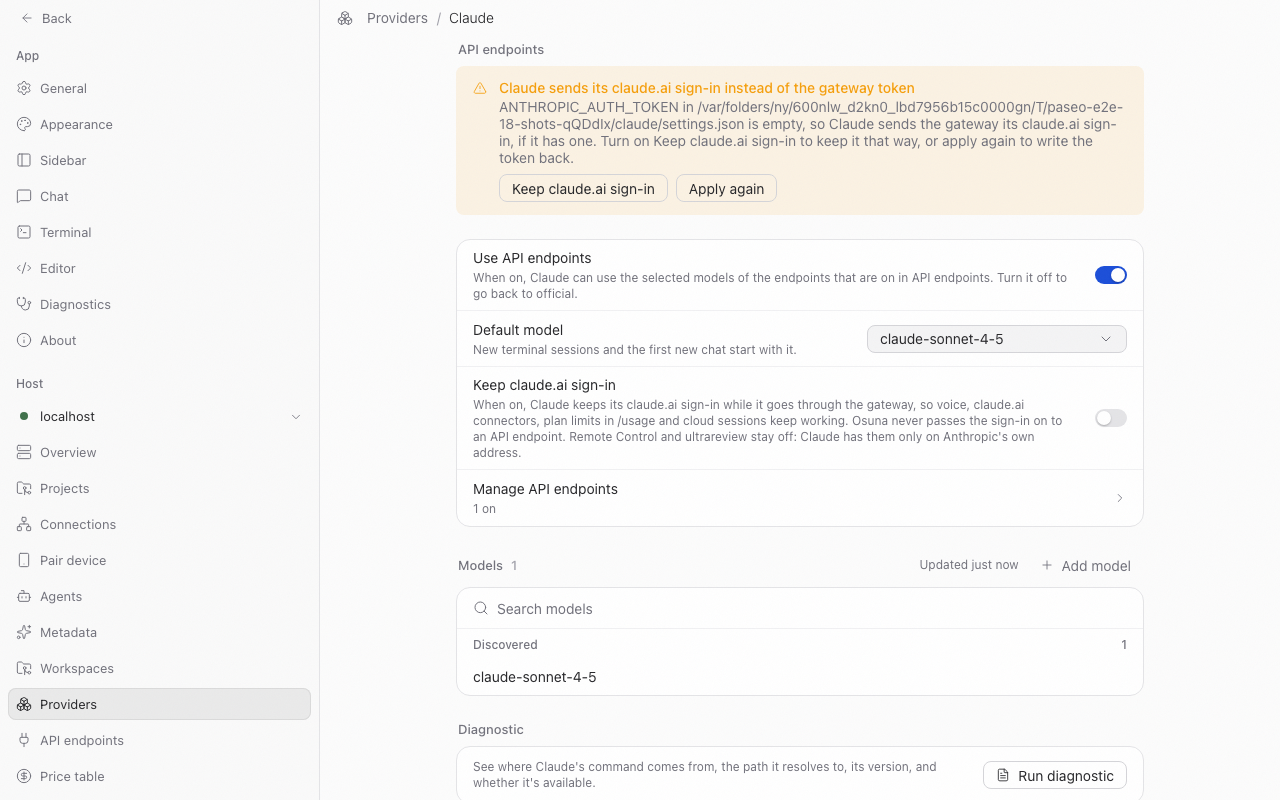
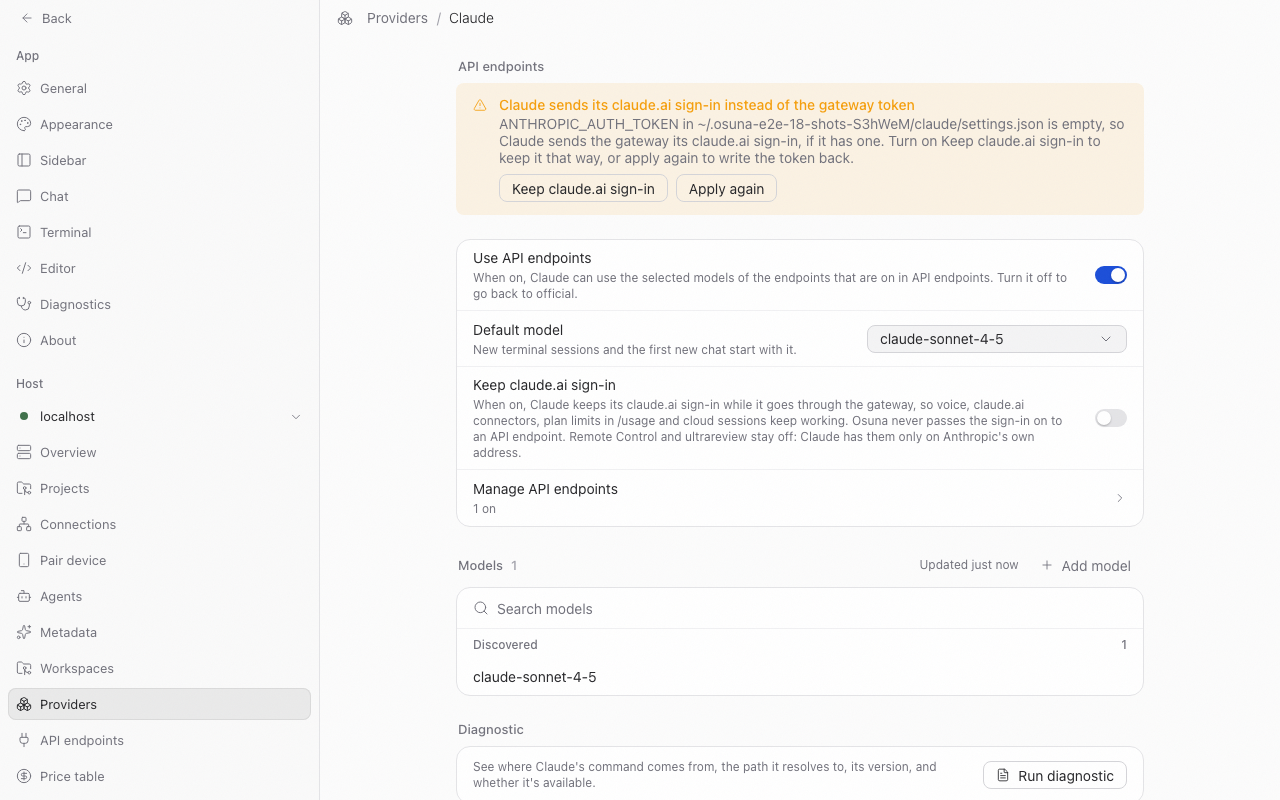
fix(api-endpoints): 工单 18 审查修正——claude.ai 登录的报错改写去掉类型断言、多条件具名；补 count_tokens 的端到端；口令填回去的提示照 magpie 说清登录还在；COMPAT 标注补全

Changed region(s): [[0.3438, 0.0625, 0.9062, 0.2188]]

diff --git a/packages/server/src/server/api-endpoints/gateway/claude-signin.ts b/packages/server/src/server/api-endpoints/gateway/claude-signin.ts
@@ -2,7 +2,7 @@
 // claudeSignIn、keepsSignIn、signInWriter 与 refusedMessage）
 // Copyright (c) 2026 yetone. MIT License — 完整声明见本仓库 THIRD_PARTY_NOTICES。
 
-import type { IncomingHttpHeaders, OutgoingHttpHeaders } from "node:http";
+import type { IncomingHttpHeaders } from "node:http";
 import type { Response } from "express";
 import { isRecord, parseJson } from "../upstream-http.js";
 import { ANSWERED_BY_HEADER } from "./upstream-call.js";
@@ -20,6 +20,8 @@ import { ANSWERED_BY_HEADER } from "./upstream-call.js";
 const SIGN_IN_PREFIX = "sk-ant-oat";
 const REVOKED_TEXT = "OAuth token has been revoked";
 const X_API_KEY = /x-api-key/gi;
+// 只用来问有没有：带 g 的正则 test 会记住上次的位置。
+const HAS_X_API_KEY = /x-api-key/i;
 const STREAM_ERROR = "event: error\n";
 // 报错开头「接口名: 」里接口名最长这么多字符（magpie refusedMessage）。
 const NAME_MOST_CHARS = 64;
@@ -31,55 +33,83 @@ export function isClaudeSignIn(headers: IncomingHttpHeaders): boolean {
   return isBearer && authorization.slice(7).trim().startsWith(SIGN_IN_PREFIX);
 }
 
-type Chunk = string | Buffer | Uint8Array;
-type WriteHead = Response["writeHead"];
+type Chunk = string | Uint8Array;
+
+/** 写给 Agent 的一段正文；回调之类的其他参数不是正文。 */
+function chunkOf(value: unknown): Chunk | null {
+  const isChunk = typeof value === "string" || value instanceof Uint8Array;
+  return isChunk ? value : null;
+}
+
+/** 响应头的值能交给 setHeader 的样子；别的不要。 */
+function headerValueOf(value: unknown): string | number | string[] | null {
+  if (typeof value === "string" || typeof value === "number") return value;
+  const isTextList = Array.isArray(value) && value.every((item) => typeof item === "string");
+  return isTextList ? value : null;
+}
+
+/** writeHead 的参数里带的响应头（对象写法；Osuna 不用数组写法）。 */
+function headersIn(args: unknown[]): Record<string, unknown> {
+  return args.find(isRecord) ?? {};
+}
 
 /**
  * 带 Claude 登录的请求（isClaudeSignIn），它的回复换成 magpie signInWriter 的写法：报错的状态码先扣着，
  * 等看到正文再决定怎么说。中转站的报错都是一次写完整份，流里的错误事件也是一次一个。
+ * 换的是这个回复自己的 writeHead / write / end，原来的那几个经 Reflect.apply 照常调用。
  */
 export function keepClaudeSignIn(res: Response): void {
-  const writeHead = res.writeHead.bind(res) as (status: number) => Response;
-  const write = res.write.bind(res) as (chunk: Chunk) => boolean;
-  const end = res.end.bind(res) as (chunk?: Chunk) => Response;
+  const originalWriteHead = res.writeHead;
+  const originalWrite = res.write;
+  const originalEnd = res.end;
+  const sendHead = (status: number): void => {
+    Reflect.apply(originalWriteHead, res, [status]);
+  };
+  const sendChunk = (chunk: Chunk): boolean => Boolean(Reflect.apply(originalWrite, res, [chunk]));
+  const finish = (chunk: Chunk | null): Response => {
+    const args = chunk === null ? [] : [chunk];
+    Reflect.apply(originalEnd, res, args);
+    return res;
+  };
   // 扣着的报错状态码；0 为没有。
   let held = 0;
   // 报错已经改成 502 发出：后面的正文都丢掉。
   let told = false;
 
-  const heldStatus = () => {
+  const heldStatus = (): number => {
     if (held !== 0) return held;
-    return !res.headersSent && res.statusCode >= 400 ? res.statusCode : 0;
+    const isErrorNotSent = !res.headersSent && res.statusCode >= 400;
+    if (isErrorNotSent) return res.statusCode;
+    return 0;
   };
   // 扣着的状态码到底没有正文：401 照样改成 502，其余原样。
-  const release = (status: number) => {
+  const release = (status: number): void => {
     held = 0;
-    writeHead(status === 401 ? 502 : status);
+    sendHead(status === 401 ? 502 : status);
   };
   // 看到报错正文：要改成 502 的交出新正文，其余保持状态码、只换掉 x-api-key。
   const answer = (status: number, chunk: Chunk): Chunk => {
     held = 0;
     const text = Buffer.from(chunk).toString("utf8");
-    const isSignInRefused = status === 401 || (status === 403 && text.includes(REVOKED_TEXT));
+    const isRevoked = status === 403 && text.includes(REVOKED_TEXT);
+    const isSignInRefused = status === 401 || isRevoked;
     if (!isSignInRefused) {
-      if (!text.match(X_API_KEY)) {
-        writeHead(status);
+      if (!HAS_X_API_KEY.test(text)) {
+        sendHead(status);
         return chunk;
       }
       res.removeHeader("content-length");
-      writeHead(status);
+      sendHead(status);
       return text.replace(X_API_KEY, "API key");
     }
     told = true;
     res.removeHeader("content-length");
     res.setHeader("content-type", "application/json");
-    writeHead(502);
+    sendHead(502);
     const answeredBy = res.getHeader(ANSWERED_BY_HEADER);
-    const message = refusedMessage({
-      text,
-      endpoint: typeof answeredBy === "string" ? answeredBy : "",
-      status,
-    });
+    let endpoint = "";
+    if (typeof answeredBy === "string") endpoint = answeredBy;
+    const message = refusedMessage({ text, endpoint, status });
     return JSON.stringify({ type: "error", error: { type: "api_error", message } });
   };
   // 开口 200 之后流里的错误事件：x-api-key 说成 API key。
@@ -88,44 +118,54 @@ export function keepClaudeSignIn(res: Response): void {
     const at = text.indexOf(STREAM_ERROR);
     if (at === -1) return chunk;
     const event = text.slice(at);
-    if (!event.match(X_API_KEY)) return chunk;
+    if (!HAS_X_API_KEY.test(event)) return chunk;
     return text.slice(0, at) + event.replace(X_API_KEY, "API key");
   };
-  const isEmpty = (chunk: Chunk | undefined): chunk is undefined =>
-    chunk === undefined || chunk.length === 0;
+  // 不扣着状态码时照发；响应头已经发出时才可能是流里的错误事件。
+  const passed = (chunk: Chunk): Chunk => {
+    if (!res.headersSent) return chunk;
+    return streamed(chunk);
+  };
 
   // 报错的状态码与响应头先扣着（头放进 res，正文来了再一起发）；其余照常。
-  const originalWriteHead = res.writeHead as unknown as (...args: unknown[]) => Response;
-  res.writeHead = ((status: number, ...rest: unknown[]) => {
+  res.writeHead = (status: number, ...rest: unknown[]): Response => {
     const isHeldError = !res.headersSent && status >= 400 && held === 0;
-    if (!isHeldError) return originalWriteHead.call(res, status, ...rest);
+    if (!isHeldError) {
+      Reflect.apply(originalWriteHead, res, [status, ...rest]);
+      return res;
+    }
     held = status;
-    const headers = rest.find(isRecord) as OutgoingHttpHeaders | undefined;
-    for (const [name, value] of Object.entries(headers ?? {})) {
-      if (value !== undefined) res.setHeader(name, value);
+    for (const [name, raw] of Object.entries(headersIn(rest))) {
+      const value = headerValueOf(raw);
+      if (value !== null) res.setHeader(name, value);
     }
     return res;
-  }) as WriteHead;
+  };
 
-  res.write = ((chunk: Chunk) => {
+  res.write = (data: unknown): boolean => {
     if (told) return true;
+    const chunk = chunkOf(data);
+    if (chunk === null || chunk.length === 0) return true;
     const status = heldStatus();
-    if (status === 0) return write(res.headersSent ? streamed(chunk) : chunk);
-    if (isEmpty(chunk)) return true;
-    return write(answer(status, chunk));
-  }) as Response["write"];
+    if (status === 0) return sendChunk(passed(chunk));
+    return sendChunk(answer(status, chunk));
+  };
 
-  res.end = ((chunk?: Chunk | (() => void)) => {
-    const data = typeof chunk === "function" ? undefined : chunk;
-    if (told) return end();
+  res.end = (data?: unknown): Response => {
+    if (told) return finish(null);
+    const chunk = chunkOf(data);
+    const isEmpty = chunk === null || chunk.length === 0;
     const status = heldStatus();
-    if (status === 0) return end(isEmpty(data) || !res.headersSent ? data : streamed(data));
-    if (isEmpty(data)) {
-      release(status);
-      return end();
+    if (status === 0) {
+      if (isEmpty) return finish(null);
+      return finish(passed(chunk));
     }
-    return end(answer(status, data));
-  }) as Response["end"];
+    if (isEmpty) {
+      release(status);
+      return finish(null);
+    }
+    return finish(answer(status, chunk));
+  };
 }
 
 /**
@@ -134,8 +174,10 @@ export function keepClaudeSignIn(res: Response): void {
  */
 function refusedMessage(input: { text: string; endpoint: string; status: number }): string {
   const parsed = parseJson(input.text);
-  const error = isRecord(parsed) && isRecord(parsed.error) ? parsed.error : null;
-  let reason = typeof error?.message === "string" ? error.message.trim() : "";
+  const error = isRecord(parsed) ? parsed.error : null;
+  const said = isRecord(error) ? error.message : null;
+  let reason = "";
+  if (typeof said === "string") reason = said.trim();
   let name = input.endpoint;
   const cut = reason.indexOf(": ");
   const isNamed = cut > 0 && cut <= NAME_MOST_CHARS && !/[\n{]/.test(reason.slice(0, cut));

diff --git a/packages/app/src/i18n/resources/ar.ts b/packages/app/src/i18n/resources/ar.ts
@@ -2655,7 +2655,7 @@ export const ar: TranslationResources = {
           keepCurrent: "إبقاء الإعدادات الحالية",
           claudeAiLoginTokenSet: "يرسل {{agent}} رمزًا بدلًا من تسجيل دخوله إلى claude.ai",
           claudeAiLoginTokenSetDetail:
-            "خيار الإبقاء على تسجيل الدخول إلى claude.ai مفعّل، لكن ANTHROPIC_AUTH_TOKEN في {{file}} مُلئ من جديد، لذا يخرج {{agent}} من claude.ai أثناء المرور عبر البوابة. «تطبيق مرة أخرى» يفرغه.",
+            "خيار الإبقاء على تسجيل الدخول إلى claude.ai مفعّل، لكن ANTHROPIC_AUTH_TOKEN في {{file}} مُلئ من جديد، لذا يرسل {{agent}} إلى البوابة هذا الرمز بدلًا من تسجيل دخوله إلى claude.ai. تسجيل الدخول نفسه ما زال محفوظًا، فلا حاجة لتسجيل الدخول مجددًا. «تطبيق مرة أخرى» يفرغ الرمز.",
           claudeAiLoginTokenEmpty: "يرسل {{agent}} تسجيل دخوله إلى claude.ai بدلًا من رمز البوابة",
           claudeAiLoginTokenEmptyDetail:
             "ANTHROPIC_AUTH_TOKEN في {{file}} فارغ، لذا يرسل {{agent}} إلى البوابة تسجيل دخوله إلى claude.ai إن وُجد. فعّل الإبقاء على تسجيل الدخول إلى claude.ai لإبقاء ذلك، أو طبّق مرة أخرى لإعادة كتابة الرمز.",

diff --git a/packages/app/src/i18n/resources/ru.ts b/packages/app/src/i18n/resources/ru.ts
@@ -2697,7 +2697,7 @@ export const ru: TranslationResources = {
           keepCurrent: "Оставить текущие настройки",
           claudeAiLoginTokenSet: "{{agent}} отправляет токен вместо входа в claude.ai",
           claudeAiLoginTokenSetDetail:
-            "«Сохранять вход в claude.ai» включено, но ANTHROPIC_AUTH_TOKEN в {{file}} снова заполнен, поэтому {{agent}} выходит из claude.ai, пока работает через шлюз. «Применить снова» очистит его.",
+            "«Сохранять вход в claude.ai» включено, но ANTHROPIC_AUTH_TOKEN в {{file}} снова заполнен, поэтому {{agent}} отправляет шлюзу этот токен вместо входа в claude.ai. Сам вход сохранён, входить заново не нужно. «Применить снова» очистит токен.",
           claudeAiLoginTokenEmpty: "{{agent}} отправляет вход в claude.ai вместо токена шлюза",
           claudeAiLoginTokenEmptyDetail:
             "ANTHROPIC_AUTH_TOKEN в {{file}} пуст, поэтому {{agent}} отправляет шлюзу свой вход в claude.ai, если он есть. Включите «Сохранять вход в claude.ai», чтобы так и оставить, или примените снова, чтобы вернуть токен.",

diff --git a/packages/server/src/server/daemon-e2e/api-endpoint-gateway.e2e.test.ts b/packages/server/src/server/daemon-e2e/api-endpoint-gateway.e2e.test.ts
@@ -724,6 +724,30 @@ describe("Claude Code signed in to claude.ai", () => {
     expect(response.status).toBe(401);
   });
 
+  test("count_tokens: an endpoint's 401 never reaches Claude Code as a 401, and the endpoint gets neither the sign-in nor its beta", async () => {
+    const { gateway, upstreamB } = await startAnswering({
+      status: 401,
+      body: JSON.stringify({
+        type: "error",
+        error: { type: "authentication_error", message: "invalid x-api-key" },
+      }),
+    });
+
+    const response = await fetch(
+      `${gateway}/v1/messages/count_tokens?beta=true`,
+      signedInRequest(glmTurn),
+    );
+
+    // 这家数不了时中转站在本地估算：Claude Code 收到 200，不是 401。
+    expect(response.status).toBe(200);
+    expect(await response.json()).toEqual({ input_tokens: expect.any(Number) });
+    const received = upstreamB.requests[0]!;
+    expect(received.url).toBe("/v1/messages/count_tokens?beta=true");
+    expect(JSON.stringify(received.headers)).not.toContain(CLAUDE_AI_TOKEN);
+    expect(received.headers.authorization).toBe(`Bearer ${KEY_B}`);
+    expect(received.headers["anthropic-beta"]).toBe("claude-code-20250219,context-1m-2025-08-07");
+  });
+
   test("a stream's error after its 200 says API key, not x-api-key", async () => {
     const upstreamB = await startUpstream();
     upstreamB.respond = (_request, res) => {

diff --git a/packages/app/src/api-endpoints/agent-section.tsx b/packages/app/src/api-endpoints/agent-section.tsx
@@ -64,6 +64,9 @@ export function AgentApiEndpointsSection({
 }: AgentApiEndpointsSectionProps) {
   const { t } = useTranslation();
   const switchHint = useSwitchHint(providerLabel, view.enableBlockedBy);
+  // 只有 Claude Code 有这个选项，主机太旧时没有处理函数。
+  const keepsClaudeAiLogin = view.keepsClaudeAiLogin;
+  const showsKeepClaudeAiLogin = keepsClaudeAiLogin !== null && onKeepClaudeAiLoginChange !== null;
   // 同一区块一次只留一条：打开被拒的原因已在提示区「读不懂」那条里，就只留红色的那条。
   const isRefusalRepeatedByIssue =
     actionErrorCode === "config_unparsable" &&
@@ -119,10 +122,10 @@ export function AgentApiEndpointsSection({
             onChange={onDefaultModelChange}
           />
         ) : null}
-        {view.keepsClaudeAiLogin !== null && onKeepClaudeAiLoginChange ? (
+        {showsKeepClaudeAiLogin ? (
           <KeepClaudeAiLoginRow
             providerLabel={providerLabel}
-            value={view.keepsClaudeAiLogin}
+            value={keepsClaudeAiLogin}
             busy={busy}
             onChange={onKeepClaudeAiLoginChange}
           />

diff --git a/packages/app/src/i18n/resources/ja.ts b/packages/app/src/i18n/resources/ja.ts
@@ -2689,7 +2689,7 @@ export const ja: TranslationResources = {
           claudeAiLoginTokenSet:
             "{{agent}} が claude.ai のサインインではなくトークンを送っています",
           claudeAiLoginTokenSetDetail:
-            "claude.ai のサインインを維持がオンですが、{{file}} の ANTHROPIC_AUTH_TOKEN が再び入力されたため、{{agent}} はゲートウェイ経由の間 claude.ai からサインアウトされています。「再適用」で空に戻します。",
+            "claude.ai のサインインを維持がオンですが、{{file}} の ANTHROPIC_AUTH_TOKEN が再び入力されたため、{{agent}} は claude.ai のサインインではなくそのトークンをゲートウェイに送っています。サインイン自体は残っているので、再ログインは不要です。「再適用」でトークンを空に戻します。",
           claudeAiLoginTokenEmpty:
             "{{agent}} がゲートウェイのトークンではなく claude.ai のサインインを送っています",
           claudeAiLoginTokenEmptyDetail:

diff --git a/packages/app/src/i18n/resources/zh-CN.ts b/packages/app/src/i18n/resources/zh-CN.ts
@@ -2679,7 +2679,7 @@ export const zhCN: TranslationResources = {
           keepCurrent: "保留当前设置",
           claudeAiLoginTokenSet: "{{agent}} 发的是口令，不是 claude.ai 登录",
           claudeAiLoginTokenSetDetail:
-            "「保留 claude.ai 登录」开着，但 {{file}} 里的 ANTHROPIC_AUTH_TOKEN 又被填了回去，{{agent}} 走中转站时就退出了 claude.ai 登录。点「重新应用」会把它清空。",
+            "「保留 claude.ai 登录」开着，但 {{file}} 里的 ANTHROPIC_AUTH_TOKEN 又被填了回去，{{agent}} 于是把这个口令发给中转站，而不是 claude.ai 登录。登录本身还在，不用重新登录。点「重新应用」会把口令清空。",
           claudeAiLoginTokenEmpty: "{{agent}} 发的是 claude.ai 登录，不是中转站口令",
           claudeAiLoginTokenEmptyDetail:
             "{{file}} 里的 ANTHROPIC_AUTH_TOKEN 是空的，{{agent}} 于是把 claude.ai 登录（如果有）发给中转站。想保持这样就打开「保留 claude.ai 登录」，或点「重新应用」把口令写回去。",

diff --git a/packages/app/src/i18n/resources/ko.ts b/packages/app/src/i18n/resources/ko.ts
@@ -2673,7 +2673,7 @@ export const ko: TranslationResources = {
           keepCurrent: "현재 설정 유지",
           claudeAiLoginTokenSet: "{{agent}}가 claude.ai 로그인 대신 토큰을 보내고 있습니다",
           claudeAiLoginTokenSetDetail:
-            "claude.ai 로그인 유지가 켜져 있지만 {{file}}의 ANTHROPIC_AUTH_TOKEN이 다시 채워져, {{agent}}가 게이트웨이를 거치는 동안 claude.ai에서 로그아웃됩니다. 다시 적용하면 비웁니다.",
+            "claude.ai 로그인 유지가 켜져 있지만 {{file}}의 ANTHROPIC_AUTH_TOKEN이 다시 채워져, {{agent}}가 claude.ai 로그인 대신 그 토큰을 게이트웨이에 보냅니다. 로그인 자체는 그대로 남아 있으니 다시 로그인할 필요는 없습니다. 다시 적용하면 토큰을 비웁니다.",
           claudeAiLoginTokenEmpty:
             "{{agent}}가 게이트웨이 토큰 대신 claude.ai 로그인을 보내고 있습니다",
           claudeAiLoginTokenEmptyDetail:

diff --git a/packages/app/src/i18n/resources/es.ts b/packages/app/src/i18n/resources/es.ts
@@ -2717,7 +2717,7 @@ export const es: TranslationResources = {
           keepCurrent: "Mantener la configuración actual",
           claudeAiLoginTokenSet: "{{agent}} envía un token en lugar de su sesión de claude.ai",
           claudeAiLoginTokenSetDetail:
-            "Mantener la sesión de claude.ai está activado, pero ANTHROPIC_AUTH_TOKEN en {{file}} se volvió a rellenar, así que {{agent}} cierra la sesión de claude.ai mientras pasa por el gateway. Aplicar de nuevo lo vacía.",
+            "Mantener la sesión de claude.ai está activado, pero ANTHROPIC_AUTH_TOKEN en {{file}} se volvió a rellenar, así que {{agent}} envía al gateway ese token en lugar de su sesión de claude.ai. La sesión sigue guardada, así que no hace falta volver a iniciarla. Aplicar de nuevo vacía el token.",
           claudeAiLoginTokenEmpty:
             "{{agent}} envía su sesión de claude.ai en lugar del token del gateway",
           claudeAiLoginTokenEmptyDetail:

diff --git a/packages/app/src/i18n/resources/fr.ts b/packages/app/src/i18n/resources/fr.ts
@@ -2719,7 +2719,7 @@ export const fr: TranslationResources = {
           keepCurrent: "Garder les réglages actuels",
           claudeAiLoginTokenSet: "{{agent}} envoie un jeton au lieu de sa connexion claude.ai",
           claudeAiLoginTokenSetDetail:
-            "Garder la connexion claude.ai est activé, mais ANTHROPIC_AUTH_TOKEN a été rempli à nouveau dans {{file}} : {{agent}} est déconnecté de claude.ai quand il passe par la passerelle. Réappliquer le vide.",
+            "Garder la connexion claude.ai est activé, mais ANTHROPIC_AUTH_TOKEN a été rempli à nouveau dans {{file}} : {{agent}} envoie ce jeton à la passerelle au lieu de sa connexion claude.ai. La connexion elle-même est toujours enregistrée, inutile de vous reconnecter. Réappliquer vide le jeton.",
           claudeAiLoginTokenEmpty:
             "{{agent}} envoie sa connexion claude.ai au lieu du jeton de la passerelle",
           claudeAiLoginTokenEmptyDetail:

diff --git a/packages/app/src/i18n/resources/pt-BR.ts b/packages/app/src/i18n/resources/pt-BR.ts
@@ -2699,7 +2699,7 @@ export const ptBR: TranslationResources = {
           keepCurrent: "Manter configurações atuais",
           claudeAiLoginTokenSet: "{{agent}} envia um token em vez do login do claude.ai",
           claudeAiLoginTokenSetDetail:
-            "Manter o login do claude.ai está ativado, mas ANTHROPIC_AUTH_TOKEN em {{file}} foi preenchido de novo, então {{agent}} sai do claude.ai enquanto passa pelo gateway. Aplicar de novo o esvazia.",
+            "Manter o login do claude.ai está ativado, mas ANTHROPIC_AUTH_TOKEN em {{file}} foi preenchido de novo, então {{agent}} envia ao gateway esse token em vez do login do claude.ai. O login continua salvo, então não é preciso entrar de novo. Aplicar de novo esvazia o token.",
           claudeAiLoginTokenEmpty:
             "{{agent}} envia o login do claude.ai em vez do token do gateway",
           claudeAiLoginTokenEmptyDetail:

diff --git a/packages/app/src/i18n/resources/en.ts b/packages/app/src/i18n/resources/en.ts
@@ -2721,7 +2721,7 @@ export const en = {
           keepCurrent: "Keep current settings",
           claudeAiLoginTokenSet: "{{agent}} sends a token instead of its claude.ai sign-in",
           claudeAiLoginTokenSetDetail:
-            "Keep claude.ai sign-in is on, but ANTHROPIC_AUTH_TOKEN in {{file}} was filled in again, so {{agent}} is signed out of claude.ai while it goes through the gateway. Apply again empties it.",
+            "Keep claude.ai sign-in is on, but ANTHROPIC_AUTH_TOKEN in {{file}} was filled in again, so {{agent}} sends the gateway that token instead of its claude.ai sign-in. The sign-in itself is still saved, so there's no need to log in again. Apply again empties the token.",
           claudeAiLoginTokenEmpty:
             "{{agent}} sends its claude.ai sign-in instead of the gateway token",
           claudeAiLoginTokenEmptyDetail:
